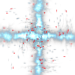
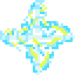
orbEater implemented, but add more tests

diff --git a/megaCheckers.py b/megaCheckers.py
@@ -47,6 +47,7 @@ def initializeField(columns, rows, window, gameBoard):
             gameBoard[i][j][1].storedItems.append("spooky hand")
             #gameBoard[i][j][1].storedItems.append("move again")
             #gameBoard[i][j][1].storedItems.append("shuffle radial")
+            gameBoard[i][j][1].storedItems.append("orbEater")
             gameBoard[i][j][1].storedItems.append("shuffle item orbs")
             gameBoard[i][j][1].storedItems.append("row laser")
             gameBoard[i][j][1].storedItems.append("column laser")
@@ -71,6 +72,7 @@ class PublicStats:
     turnCount = 1
     cycle = 0
     orbCycleList = [5, 10, 0, 0, 3, 1, 0, 2, 1]
+    #orbCycleList = [5, 20, 30, 0, 3, 1, 0, 2, 1]
     spookyHand = False
     spookyHandTurnCount = 5
     def getOrbCount(self):
@@ -107,6 +109,7 @@ class Tile:
         self.horiLaser = False
         self.vertLaser = False
         self.crossLaser = False
+        self.orbEater = False
 
     def describeSelf(self):
 
@@ -303,16 +306,22 @@ def createOrbs(window, gameBoard):
         )
     for i in gameBoard:
         for j in i:
-            if j[0].tileType == "default":
+            if j[0].tileType == "default" and j[0].orbEater == False:
                 emptySpots += 1
     publicStats = PublicStats()
     orbsToPlace = publicStats.getOrbCount()
     if orbsToPlace > emptySpots:
         orbsToPlace = emptySpots
+    attempts = 0
     while orbsToPlace > 0:
+        attempts+=1
+        if attempts == 300:
+            sg.popup("Space is at a premium for orb generation.  Aborting.")
+            return
+        
         i = random.randint(0, len(gameBoard) - 1)
         j = random.randint(0, len(gameBoard[0]) - 1)
-        if gameBoard[i][j][0].tileType == "default":
+        if gameBoard[i][j][0].tileType == "default" and gameBoard[i][j][0].occupied != True and gameBoard[i][j][0].orbEater == False:
             orbsToPlace -= 1
             if PublicStats.turnCount > dangerTurn:
                 chanceCheck = random.randint(0, 10)
@@ -679,6 +688,7 @@ def publicPNGloader():
         "itemOrb",#7
         "trapOrb",#8
         "vertLaserTripod",#9
+        "orbEater", #10
         ]):
         if i == "p1":
             myImage = Image.open("images/p1.png").convert("RGBA")
@@ -754,10 +764,16 @@ def displayBoard(window, gameBoard):
                 #0 default
                 if gameBoard[i][j][0].tileType == "default":
                     window[i, j].update(image_data=PublicPNGList[0])
+                    #if the mouse is here
+                    if gameBoard[i][j][0].orbEater == True:
+                        window[i, j].update(image_data=PublicPNGList[10])
                     continue
                 #7 itemOrb
                 elif gameBoard[i][j][0].tileType == "itemOrb":
                     window[i, j].update(image_data=PublicPNGList[7])
+                    #if the mouse is here
+                    if gameBoard[i][j][0].orbEater == True:
+                        window[i, j].update(image_data=PublicPNGList[10])
                     continue
                 #1 destroyed
                 elif gameBoard[i][j][0].tileType == "destroyed":
@@ -774,6 +790,9 @@ def displayBoard(window, gameBoard):
                     "trap orb 2",
                 ]:
                     window[i, j].update(image_data=PublicPNGList[8])
+                    #if the mouse is here
+                    if gameBoard[i][j][0].orbEater == True:
+                        window[i, j].update(image_data=PublicPNGList[10])
                     continue
                 elif gameBoard[i][j][0].tileType in ["hand1","hand2","hand3"]:
                     pass
@@ -979,6 +998,13 @@ def mapping(element):
     elif orientation in ("brr", "bmr", "mrb"):
         return (x - 1, y - 1)
 
+def emptySpots(gameBoard):
+    emptySpots = []
+    for iIndex, i in enumerate(gameBoard):
+        for jIndex,j in enumerate(i):
+            if j[0].tileType == "default":
+                emptySpots.append( (iIndex, jIndex) )
+    return emptySpots
 
 # using an item
 def useItems(gameBoard, x, y, window):
@@ -1144,8 +1170,30 @@ def useItems(gameBoard, x, y, window):
                     g[0].crossLaser = False
                     laserCheck(window,gameBoard)
             else:
-                sg.popup("Pick something in range (default range is one up/down/left/right)!", keep_on_top=True)    
-
+                sg.popup("Pick something in range (default range is one up/down/left/right)!", keep_on_top=True)
+                
+        elif str.find(i, "orbEater") >= 0:
+            itemsMenu.close()
+            emptyList = emptySpots(gameBoard)
+            pm(window, "Where do you want to deliver the orb eater to?")
+            event = window.read()
+            try:
+                if event[0] in emptyList and gameBoard[event[0][0]][event[0][1]][0].orbEater == False:
+                    gameBoard[x][y][1].storedItems.remove("orbEater")
+                    gameBoard[event[0][0]][event[0][1]][0].orbEater = True
+                    sg.popup("Squeak.")
+                elif gameBoard[event[0][0]][event[0][1]][0].orbEater == True:
+                    sg.popup("There's already an orb eater here... get your mind out of the gutter, that's not going to happen.")
+                    pm(window, "There's already an orb eater here... get your mind out of the gutter, that's not going to happen.")
+                else:
+                    sg.popup("You need to select an emty space.  The orb eater will find nearby orbs to eat on his own.")
+                    continue
+            except:
+                sg.popup(f"Error. {event[0]} {emptyList}")
+                continue
+                
+            
+            
         elif str.find(i, "column laser") >= 0:
             itemsMenu.close()
             validTargets = getCross((x, y), gameBoard)
@@ -1223,17 +1271,14 @@ def useItems(gameBoard, x, y, window):
                         window.refresh()
                     else:
                         continue
-            emptySpots = []
-            for iIndex, i in enumerate(gameBoard):
-                for jIndex,j in enumerate(i):
-                    if j[0].tileType == "default":
-                        emptySpots.append( (iIndex, jIndex) )
-            random.shuffle(emptySpots)
+                    
+            emptyList = emptySpots(gameBoard)
+            random.shuffle(emptyList)
             random.shuffle(orbList)
 
             for iIndex,i in enumerate(orbList):
-                emptyX = emptySpots[iIndex][0]
-                emptyY = emptySpots[iIndex][1]
+                emptyX = emptyList[iIndex][0]
+                emptyY = emptyList[iIndex][1]
                 gameBoard[emptyX][emptyY][0].tileType = i
                 displayBoard(window, gameBoard)
                 window.refresh()
@@ -2445,6 +2490,48 @@ def useItems(gameBoard, x, y, window):
         if event[0] == "CANCEL":
             itemsMenu.close()
             return
+        
+def orbEater(gameBoard):
+    listOfMice = []
+    legalLocations = []
+    orbsEaten = 0
+    for iIndex,i in enumerate(gameBoard):
+        for jIndex, j in enumerate(i):
+            if j[0].orbEater == True:
+                listOfMice.append( (iIndex,jIndex) )
+    for i in listOfMice:
+        ateOrb = False
+        legalLocations.clear()
+        legalLocations = getCross(i,gameBoard) #dang it, TJ!
+        #print(legalLocations)
+        random.shuffle(legalLocations)
+        if gameBoard[i[0]][i[1]][0].tileType in ( "itemOrb", "trap Orb 1", "trap Orb 2", "trap Orb 0"):
+            #sg.popup("Orbeater was blessed with an orb!")
+            gameBoard[i[0]][i[1]][0].tileType = "default"
+            #make orbeater fat
+            continue
+        for j in legalLocations:
+            if gameBoard[j[0]][j[1]][0].tileType in ( "itemOrb", "trap Orb 1", "trap Orb 2", "trap Orb 0"):
+                gameBoard[i[0]][i[1]][0].orbEater = False
+                gameBoard[j[0]][j[1]][0].tileType = "default"
+                gameBoard[j[0]][j[1]][0].orbEater = True
+                #change the picture to a fat mouse if he eats an orb; explode the mouse if it's a trap orb.  If he eats too many orbs, maybe make him crazy?
+                #sg.popup("Orb eater ate an orb!")
+                orbsEaten+=1
+                ateOrb = True
+                break
+        if ateOrb == False:
+            for j in legalLocations:
+                if gameBoard[j[0]][j[1]][0].tileType == "default" and gameBoard[j[0]][j[1]][0].occupied == False:
+                    gameBoard[i[0]][i[1]][0].orbEater = False
+                    gameBoard[j[0]][j[1]][0].tileType = "default"
+                    gameBoard[j[0]][j[1]][0].orbEater = True
+                    #sg.popup(f"Mouse went to {j}")
+                    break
+                else:
+                    continue
+        
+    return orbsEaten
 
 def bowlingBallFunction(window,gameBoard,location,direction):
     sLocRow = location[0]
@@ -3586,7 +3673,9 @@ def movePiece(playerTurn, window, gameBoard):
                                 0
                             ].tileType = "default"
                             break
-
+                    if gameBoard[endLocation[0]][endLocation[1]][0].orbEater == True:
+                        sg.popup("You monster!  You killed an orb eater!")
+                        gameBoard[endLocation[0]][endLocation[1]][0].orbEater = False
                     pm(window, "Moved successfully")
                     window.refresh
 
@@ -3936,6 +4025,10 @@ def begin():
     initializeField(columns, rows, window, gameBoard)
     resetMoveAgain(gameBoard)
 
+
+
+
+    #Between turns
     playerTurn = 1
     while True:
 
@@ -3962,12 +4055,25 @@ def begin():
                 y = -1
             playerTurn = 2
 
+
+
+
+
+            #End player 1's turn
+            
             if PublicStats.spookyHand == True:
                 spookyHand(window,gameBoard)
 
-                
+            orbsEaten = orbEater(gameBoard)    
             resetMoveAgain(gameBoard)
             laserCheck(window, gameBoard)
+            if orbsEaten > 0:
+                pm(window, f"Orbs eaten by the orb eaters: {orbsEaten}")
+
+
+
+
+            
         # end player two's turn, begin player one's turn
         else:
             window["turn"].update(filename="images/up.png")
@@ -3992,10 +4098,11 @@ def begin():
             
             if PublicStats.spookyHand == True:
                 spookyHand(window,gameBoard)
-
+            orbsEaten = orbEater(gameBoard)
             laserCheck(window, gameBoard)    
             resetMoveAgain(gameBoard)
-            
+            if orbsEaten > 0:
+                pm(window, f"Orbs eaten by the orb eaters: {orbsEaten}")
             
 
 
